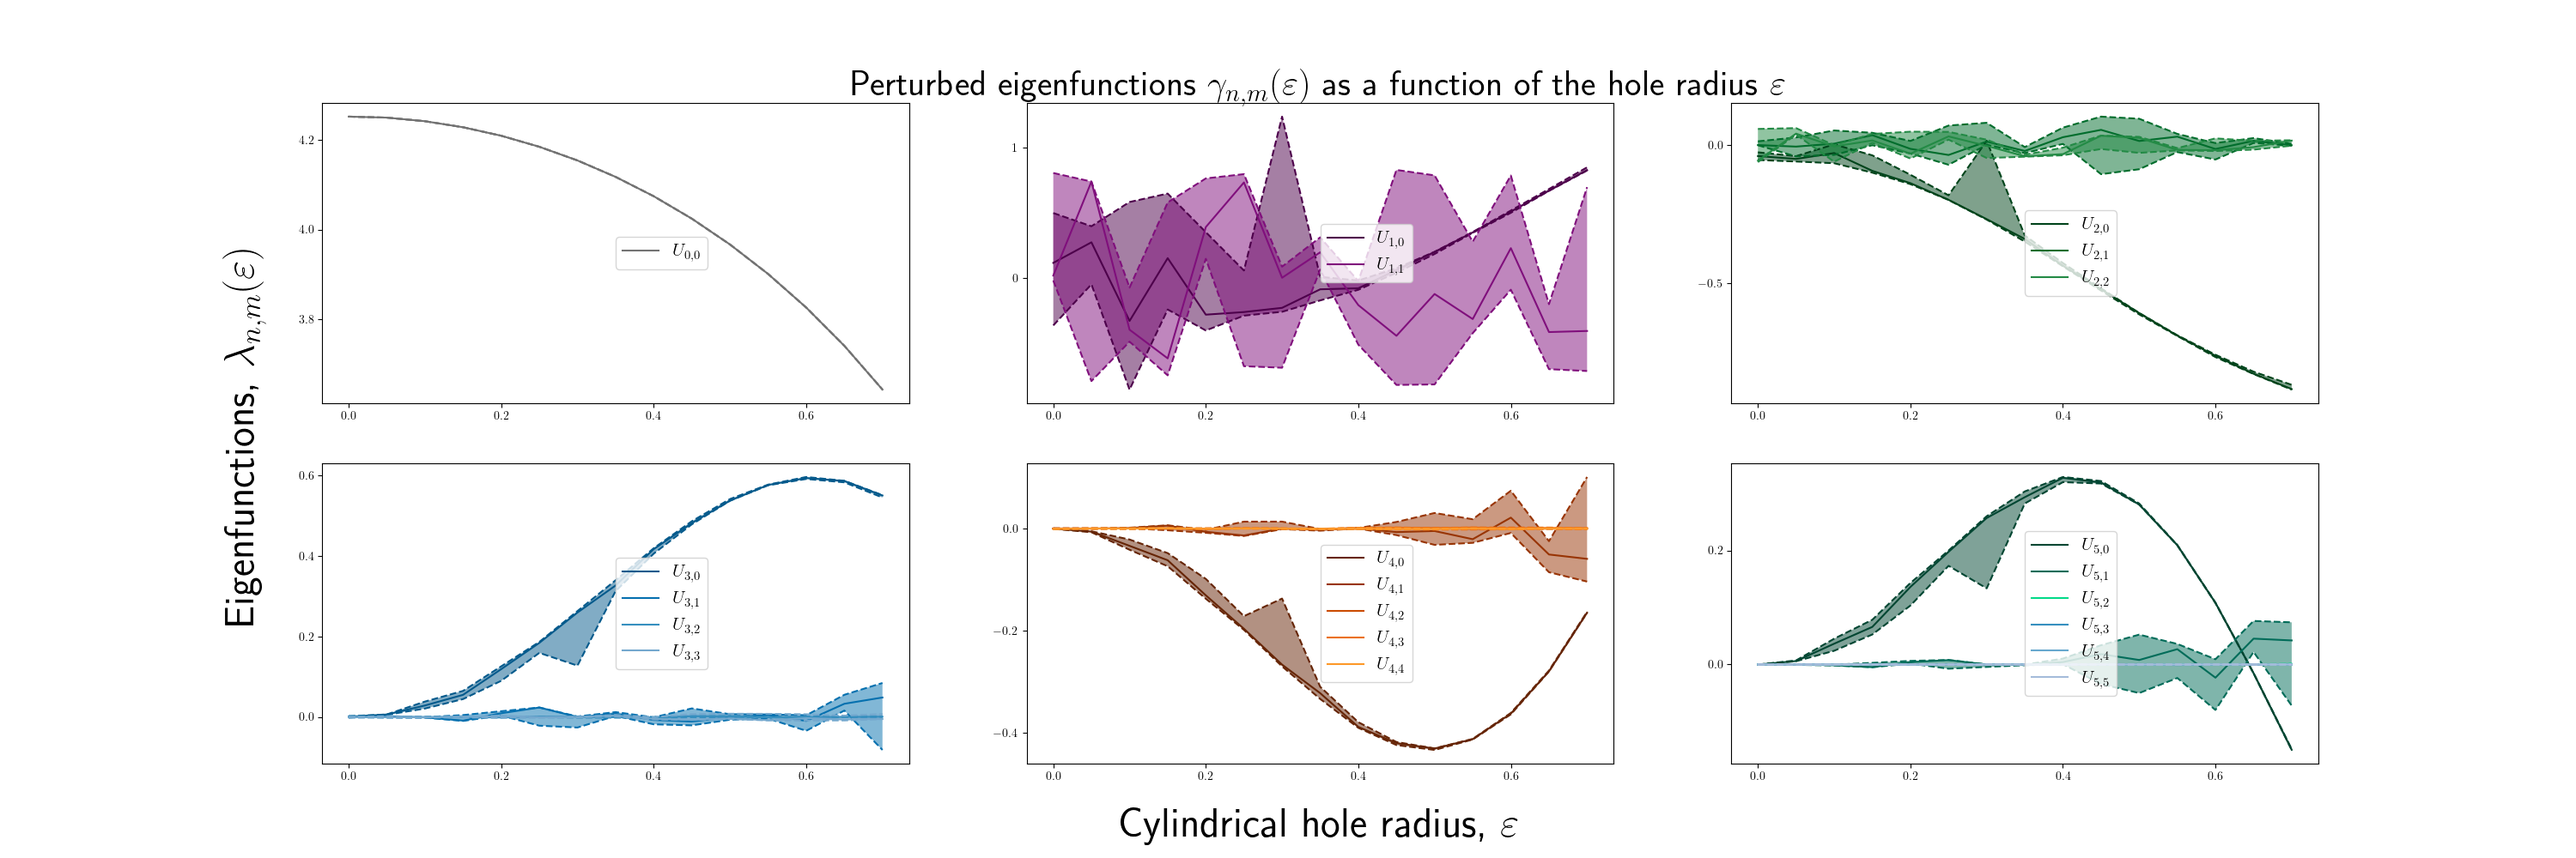
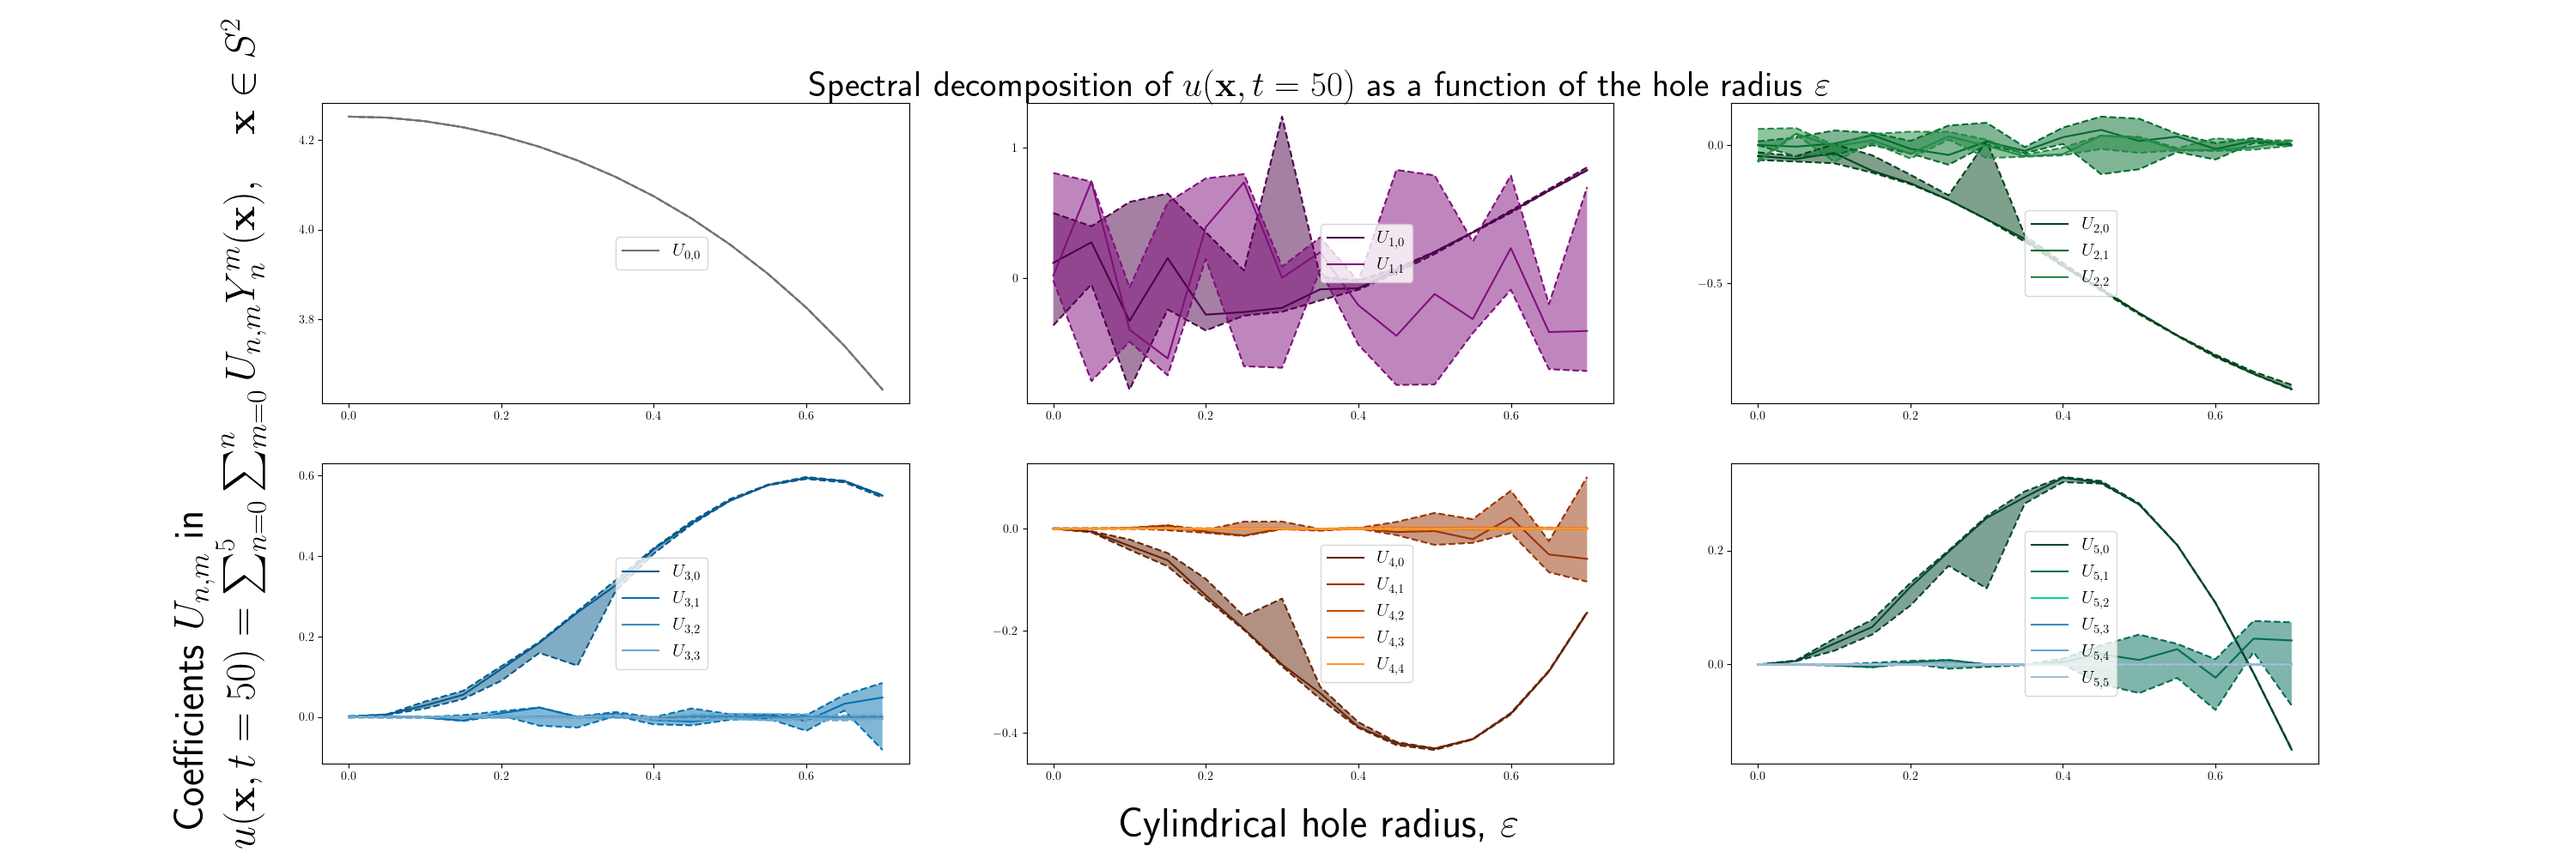
Update the y-label and the title of the figure containing the spectral decomposition as a function of the hole radius

Changed region(s): [[0.31, 0.093, 0.713, 0.124], [0.062, 0.465, 0.124, 0.744], [0.062, 0.775, 0.093, 0.961]]

diff --git a/Code/plot_perturbed_eigenfunctions.py b/Code/plot_perturbed_eigenfunctions.py
@@ -172,9 +172,9 @@ for index in range(21):
 # hide tick and tick label of the big axis
 plt.tick_params(labelcolor='none', which='both', top=False, bottom=False, left=False, right=False)
 plt.xlabel("Cylindrical hole radius, $\\varepsilon$")
-plt.ylabel("Eigenfunctions, $\\lambda_{n,m}(\\varepsilon)$")
+plt.ylabel('Coefficients $U_{n,m}$ in \\\\$u(\\mathbf{x},t=50)=\\sum_{n=0}^{5}\\sum_{m=0}^{n}U_{n,m}Y_{n}^{m}(\\mathbf{x}),\\quad\\mathbf{x}\\in S^2$')
 # displaying the title
-plt.title("Perturbed eigenfunctions $\\gamma_{n,m}(\\varepsilon)$ as a function of the hole radius $\\varepsilon$",fontsize=30, fontweight='bold')
+plt.title("Spectral decomposition of $u(\\mathbf{x},t=50)$ as a function of the hole radius $\\varepsilon$",fontsize=30, fontweight='bold')
 # Save fig and show it
 plt.savefig("../Figures/eigenfunctions_vs_hole_radius_n_" + str(n) + ".png")
 plt.show()
